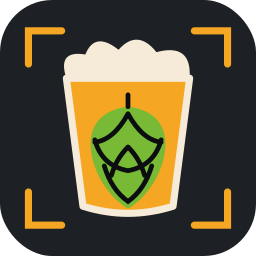
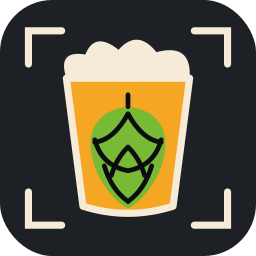
fix(p3): complete native picker acceptance and synchronize device checks

diff --git a/android/app/src/androidTest/java/ru/krapiva/app/account/AccountIntegrationTest.kt b/android/app/src/androidTest/java/ru/krapiva/app/account/AccountIntegrationTest.kt
@@ -15,9 +15,17 @@ import ru.krapiva.app.designsystem.KraPivaTheme
 import java.net.URL
 import java.util.UUID
 import android.graphics.Bitmap
-import java.io.ByteArrayOutputStream
-import java.io.File
 import android.os.ParcelFileDescriptor
+import ru.krapiva.app.TestEvidence
+import android.content.ContentValues
+import android.net.Uri
+import android.os.Build
+import android.os.Environment
+import android.provider.MediaStore
+import androidx.test.uiautomator.By
+import androidx.test.uiautomator.UiDevice
+import androidx.test.uiautomator.Until
+import java.util.regex.Pattern
 
 /** Real local HTTP+PostgreSQL+SMTP. Never targets staging/production or external mail. */
 @RunWith(AndroidJUnit4::class)
@@ -25,10 +33,7 @@ class AccountIntegrationTest {
     @get:Rule val compose = createComposeRule()
     private fun screenshot(name: String) {
         compose.waitForIdle()
-        val instrumentation = InstrumentationRegistry.getInstrumentation()
-        File(instrumentation.targetContext.getExternalFilesDir(null), name).outputStream().use {
-            instrumentation.uiAutomation.takeScreenshot().compress(Bitmap.CompressFormat.PNG, 100, it)
-        }
+        TestEvidence.screenshot(name)
     }
     private fun shell(command: String) {
         ParcelFileDescriptor.AutoCloseInputStream(InstrumentationRegistry.getInstrumentation().uiAutomation.executeShellCommand(command)).use { it.readBytes() }
@@ -38,6 +43,32 @@ class AccountIntegrationTest {
         try { connection.connectTimeout = 1000; connection.readTimeout = 1000; connection.responseCode == 200 }
         finally { connection.disconnect() }
     }.getOrDefault(false)
+    private fun insertSyntheticPhoto(): Uri {
+        val resolver = InstrumentationRegistry.getInstrumentation().targetContext.contentResolver
+        if (Build.VERSION.SDK_INT >= 29) {
+            val values = ContentValues().apply {
+                put(MediaStore.Images.Media.DISPLAY_NAME, "p3-synthetic-${UUID.randomUUID()}.png")
+                put(MediaStore.Images.Media.MIME_TYPE, "image/png")
+                put(MediaStore.Images.Media.RELATIVE_PATH, Environment.DIRECTORY_PICTURES + "/KraPivaP3")
+                put(MediaStore.Images.Media.DATE_TAKEN, System.currentTimeMillis())
+                put(MediaStore.Images.Media.IS_PENDING, 1)
+            }
+            val uri = checkNotNull(resolver.insert(MediaStore.Images.Media.EXTERNAL_CONTENT_URI, values))
+            val bitmap = Bitmap.createBitmap(32, 24, Bitmap.Config.ARGB_8888).apply { eraseColor(android.graphics.Color.rgb(245, 166, 35)) }
+            checkNotNull(resolver.openOutputStream(uri)).use { check(bitmap.compress(Bitmap.CompressFormat.PNG, 100, it)) }
+            resolver.update(uri, ContentValues().apply { put(MediaStore.Images.Media.IS_PENDING, 0) }, null, null)
+            return uri
+        }
+        error("The pinned API35 acceptance image is required for the native photo picker test")
+    }
+    private fun pickLatestPhoto(button: String, selected: String) {
+        compose.onNodeWithText(button).performScrollTo().performClick()
+        val device = UiDevice.getInstance(InstrumentationRegistry.getInstrumentation())
+        val thumbnail = device.wait(Until.findObject(By.res(Pattern.compile(".*:id/icon_thumbnail"))), 15_000)
+        assertNotNull("The actual Android photo picker must show the synthetic image", thumbnail)
+        thumbnail.click()
+        compose.waitUntil(15_000) { compose.onAllNodesWithText(selected).fetchSemanticsNodes().isNotEmpty() }
+    }
     @Test fun androidAccountFlowAndCacheIsolation() {
         check(BuildConfig.API_ENVIRONMENT == "development" && BuildConfig.API_BASE_URL.startsWith("http://10.0.2.2:"))
         val context = InstrumentationRegistry.getInstrumentation().targetContext
@@ -91,18 +122,25 @@ class AccountIntegrationTest {
             val session = store.session()!!
             val file = java.io.File(context.noBackupFilesDir, "session.enc").readBytes().toString(Charsets.ISO_8859_1)
             assertFalse(file.contains(session.getString("accessToken")))
-            val bitmap = Bitmap.createBitmap(32, 24, Bitmap.Config.ARGB_8888).apply { eraseColor(android.graphics.Color.rgb(245, 166, 35)) }
-            val image = ByteArrayOutputStream().apply { bitmap.compress(Bitmap.CompressFormat.PNG, 100, this) }.toByteArray()
-            val avatar = JSONObject(String(reopened.bytes("v1/media", "POST", image, "image/png"))).getString("id")
-            val cover = JSONObject(String(reopened.bytes("v1/media", "POST", image, "image/png"))).getString("id")
-            val edit = JSONObject(profile.toString()).apply { remove("userId"); remove("updatedAt"); put("avatarAssetId", avatar); put("coverAssetId", cover) }
-            val saved = reopened.json("v1/me/profile", "PATCH", edit)
-            assertEquals(avatar, saved.getString("avatarAssetId")); assertEquals(cover, saved.getString("coverAssetId"))
-            assertNotNull(reopened.photo(avatar)); assertNotNull(store.photo(userId, avatar))
         }
-        compose.onNodeWithText("Обновить").performScrollTo().performClick()
+        insertSyntheticPhoto()
+        compose.onNodeWithText("Редактировать профиль").performScrollTo().performClick()
+        compose.onNodeWithText("Выбрать аватар").performScrollTo().performClick()
+        UiDevice.getInstance(InstrumentationRegistry.getInstrumentation()).pressBack()
+        compose.waitUntil(10_000) { compose.onAllNodesWithText("Фото не выбрано. Профиль не изменён.").fetchSemanticsNodes().isNotEmpty() }
+        pickLatestPhoto("Выбрать аватар", "Другой аватар · фото выбрано")
+        pickLatestPhoto("Выбрать обложку", "Другая обложка · фото выбрано")
+        compose.onNodeWithText("Сохранить").performScrollTo().performClick()
         compose.waitUntil(20_000) { compose.onAllNodesWithContentDescription("Аватар профиля").fetchSemanticsNodes().isNotEmpty() }
         compose.onNodeWithContentDescription("Обложка профиля").assertExists()
+        runBlocking {
+            val reopened = AccountApi(AccountStore(context)); assertTrue(reopened.restore())
+            val saved = reopened.json("v1/me")
+            assertNotEquals(saved.getString("avatarAssetId"), saved.getString("coverAssetId"))
+            val thumbnail = reopened.photo(saved.getString("avatarAssetId"))!!
+            assertEquals(32, android.graphics.BitmapFactory.decodeByteArray(thumbnail, 0, thumbnail.size).width)
+            assertNotNull(store.photo(userId, saved.getString("avatarAssetId")))
+        }
         compose.onNodeWithContentDescription("Аватар профиля").performScrollTo().performClick()
         compose.waitUntil(15_000) { compose.onAllNodesWithText("Фото профиля").fetchSemanticsNodes().isNotEmpty() }
         compose.onNodeWithText("Закрыть").performClick()
@@ -117,7 +155,11 @@ class AccountIntegrationTest {
         compose.waitUntil(30_000) { networkReady() }
         compose.onNodeWithText("Обновить").performScrollTo().performClick()
         compose.waitUntil(30_000) { compose.onAllNodesWithText("Сохранённая копия · изменения требуют сети").fetchSemanticsNodes().isEmpty() }
+        // The profile arrives before the thumbnail requests finish. Navigation stays
+        // disabled until that real request completes; wait for its enabled state.
+        compose.waitUntil(20_000) { compose.onAllNodes(hasText("Настройки аккаунта") and isEnabled()).fetchSemanticsNodes().size == 1 }
         compose.onNodeWithText("Настройки аккаунта").performScrollTo().performClick()
+        compose.waitUntil(10_000) { compose.onAllNodes(hasText("Выйти из аккаунта") and isEnabled()).fetchSemanticsNodes().size == 1 }
         compose.onNodeWithText("Выйти из аккаунта").performScrollTo().performClick()
         compose.waitUntil(15_000) { compose.onAllNodesWithText("Вы вышли из аккаунта").fetchSemanticsNodes().isNotEmpty() }
         assertNull(store.cached(userId)); assertNull(store.session())

diff --git a/android/app/src/androidTest/java/ru/krapiva/app/designsystem/BeerHeroTest.kt b/android/app/src/androidTest/java/ru/krapiva/app/designsystem/BeerHeroTest.kt
@@ -1,6 +1,5 @@
 package ru.krapiva.app.designsystem
 
-import android.graphics.Bitmap
 import androidx.compose.foundation.layout.Column
 import androidx.compose.material3.Text
 import androidx.compose.ui.test.*
@@ -8,7 +7,7 @@ import androidx.compose.ui.test.junit4.createComposeRule
 import androidx.test.platform.app.InstrumentationRegistry
 import org.junit.Rule
 import org.junit.Test
-import java.io.File
+import ru.krapiva.app.TestEvidence
 import androidx.compose.ui.Modifier
 import androidx.compose.ui.platform.testTag
 import androidx.compose.ui.graphics.asAndroidBitmap
@@ -35,11 +34,7 @@ class BeerHeroTest {
             BeerHero(forceReducedMotion = true)
         } } }
         compose.onAllNodesWithContentDescription("Фирменный бокал KraPiva с пеной и хмелем").assertCountEquals(3)
-        val context = InstrumentationRegistry.getInstrumentation().targetContext
-        val file = File(context.getExternalFilesDir(null), "p3-liquid-states.png")
-        InstrumentationRegistry.getInstrumentation().uiAutomation.takeScreenshot().let { bitmap ->
-            file.outputStream().use { bitmap.compress(Bitmap.CompressFormat.PNG, 100, it) }
-        }
+        TestEvidence.screenshot("p3-liquid-states.png")
     }
     @Test fun noSensorLoopMovesAndReducedMotionStaysStill() {
         compose.setContent { KraPivaTheme { Column {
@@ -63,19 +58,28 @@ class BeerHeroTest {
             registry = LifecycleRegistry(owner).apply { currentState = Lifecycle.State.RESUMED }
         }
         val visible = mutableStateOf(true)
-        fun subscribed(): Boolean = ParcelFileDescriptor.AutoCloseInputStream(instrumentation.uiAutomation.executeShellCommand("dumpsys sensorservice")).use {
-            it.readBytes().toString(Charsets.UTF_8).substringAfter("open event connections")
-                .substringBefore("Previous Registrations:").contains(instrumentation.targetContext.packageName)
+        fun subscriptions(): Int = ParcelFileDescriptor.AutoCloseInputStream(instrumentation.uiAutomation.executeShellCommand("dumpsys sensorservice")).use {
+            // Connection objects/history can outlive unregistration. Count active
+            // sensor handles in this app's connection, not occurrences of its name.
+            val connections = it.readBytes().toString(Charsets.UTF_8)
+                .substringBefore("Previous Registrations:").split("Connection Number:").drop(1)
+            connections.filter { connection -> connection.contains(instrumentation.targetContext.packageName) }
+                .sumOf { connection -> Regex("0x[0-9a-fA-F]+\\s*\\|\\s*first flush pending").findAll(connection).count() }
+        }
+        fun expectSubscriptions(expected: Int, phase: String) {
+            var actual = -1
+            try { compose.waitUntil(10_000) { actual = subscriptions(); actual == expected } }
+            catch (error: Exception) { throw AssertionError("Sensor subscriptions during $phase: expected=$expected, actual=$actual", error) }
         }
         compose.setContent { KraPivaTheme {
             CompositionLocalProvider(LocalLifecycleOwner provides owner) { if (visible.value) BeerHero() }
         } }
-        compose.waitUntil(10_000) { subscribed() }
+        expectSubscriptions(1, "resume")
         compose.runOnIdle { registry.currentState = Lifecycle.State.CREATED }
-        compose.waitUntil(10_000) { !subscribed() }
+        expectSubscriptions(0, "pause")
         compose.runOnIdle { registry.currentState = Lifecycle.State.RESUMED }
-        compose.waitUntil(10_000) { subscribed() }
+        expectSubscriptions(1, "second resume without duplicate listeners")
         compose.runOnIdle { visible.value = false }
-        compose.waitUntil(10_000) { !subscribed() }
+        expectSubscriptions(0, "disposal")
     }
 }

diff --git a/android/app/src/androidTest/java/ru/krapiva/app/TestEvidence.kt b/android/app/src/androidTest/java/ru/krapiva/app/TestEvidence.kt
@@ -1,0 +1,34 @@
+package ru.krapiva.app
+
+import android.content.ContentValues
+import android.graphics.Bitmap
+import android.os.Build
+import android.os.Environment
+import android.provider.MediaStore
+import androidx.test.platform.app.InstrumentationRegistry
+import java.io.File
+
+/** Synthetic screenshots survive AGP uninstall; no storage permission in the app. */
+object TestEvidence {
+    fun screenshot(name: String) {
+        val instrumentation = InstrumentationRegistry.getInstrumentation()
+        val context = instrumentation.targetContext
+        val bitmap = checkNotNull(instrumentation.uiAutomation.takeScreenshot())
+        if (Build.VERSION.SDK_INT >= 29) {
+            val values = ContentValues().apply {
+                put(MediaStore.Downloads.DISPLAY_NAME, name)
+                put(MediaStore.Downloads.MIME_TYPE, "image/png")
+                put(MediaStore.Downloads.RELATIVE_PATH, Environment.DIRECTORY_DOWNLOADS + "/KraPivaP3")
+                put(MediaStore.Downloads.IS_PENDING, 1)
+            }
+            val resolver = context.contentResolver
+            val uri = checkNotNull(resolver.insert(MediaStore.Downloads.EXTERNAL_CONTENT_URI, values))
+            checkNotNull(resolver.openOutputStream(uri)).use { check(bitmap.compress(Bitmap.CompressFormat.PNG, 100, it)) }
+            resolver.update(uri, ContentValues().apply { put(MediaStore.Downloads.IS_PENDING, 0) }, null, null)
+        } else {
+            File(context.getExternalFilesDir(null), name).outputStream().use {
+                check(bitmap.compress(Bitmap.CompressFormat.PNG, 100, it))
+            }
+        }
+    }
+}

diff --git a/android/app/src/main/java/ru/krapiva/app/designsystem/BeerHero.kt b/android/app/src/main/java/ru/krapiva/app/designsystem/BeerHero.kt
@@ -112,8 +112,8 @@ fun BeerHero(modifier: Modifier = Modifier, previewAngle: Float? = null, forceRe
             val y = if (vertical == 0) h * .08f else h * .96f
             val dx = if (side == 0) w * .13f else -w * .13f
             val dy = if (vertical == 0) h * .12f else -h * .12f
-            drawLine(KraPivaColors.Amber, Offset(x, y), Offset(x + dx, y), w * .025f)
-            drawLine(KraPivaColors.Amber, Offset(x, y), Offset(x, y + dy), w * .025f)
+            drawLine(KraPivaColors.Cream, Offset(x, y), Offset(x + dx, y), w * .025f)
+            drawLine(KraPivaColors.Cream, Offset(x, y), Offset(x, y + dy), w * .025f)
         }
     }
 }

diff --git a/docs/PROGRESS.md b/docs/PROGRESS.md
@@ -1,12 +1,12 @@
-# KraPiva 2.0 — P3 WIP, АВАРИЙНАЯ ОСТАНОВКА
+# KraPiva 2.0 — P3 WIP, продолжение приёмки
 
-6 ноября 2026, Europe/Istanbul. Разработка остановлена по прямой команде
-владельца. **Не запускать задачи, сборки, тесты или исследования до «Продолжай».**
+6 ноября 2026, Europe/Istanbul. Владелец разрешил продолжение P3 после
+аварийного сохранения `24bd744`. Только P3; остановка перед P4 обязательна.
 P0/P1/P2 DONE. **P3 не принят: runtime-проверки Android не завершены. P4 не начат.**
 
 Ветка: `codex/krapiva-2-p3`, база P2 `bf995357098df505965dd4425afca6f5eeff4810`.
 Последний code/config checkpoint перед отчётом — `af07a7c` (push подтверждён).
-Финальный WIP-коммит сохранения — `git log -1`; его полный SHA сообщён владельцу.
+WIP остановки — `24bd7449ae8f42d21627cd8b2986421289fe33ea`; новые checkpoint — `git log`.
 Draft PR: https://github.com/D1ma4ka/Kr2P1v2/pull/6, base P2. Merge, force push,
 production, публикация APK и расходы не выполнялись.
 
@@ -57,23 +57,28 @@ production, публикация APK и расходы не выполнялис
   https://github.com/D1ma4ka/Kr2P1v2/actions/runs/42111333099
 - `af07a7c` исправляет пути: AVD/user/emulator каталоги явно в work/,
   setpriv --reset-env восстанавливает user context; emulator code запускается
-  непривилегированно. **Результат этого CI на момент стоп-команды не прочитан.**
-  Ранее автоматически запущенный удалённый CI может ещё выполняться;
-  WIP-сохранение помечено `[skip ci]`, новых проверок оно не запускает.
+  непривилегированно. **Результат прочитан при продолжении:** boot PASS, 5 instrumented tests,
+  3 PASS / 2 FAIL. Регистрация/письмо/вход/редактирование/фото/offline дошли
+  до settings; race после загрузки thumbnail и проверка sensor connection
+  исправляются, полный E2E ещё не принят. Run: 42112306001.
 - Screenshot baseline pending; physical tilt/TalkBack и RU staging NOT RUN/BLOCKED.
   Запрос удаления реализован, production erasure/retention process — до эксплуатации.
   Цели capacity не измерялись; весь продукт и iOS не объявляются завершёнными.
 
-## Точная следующая задача — только после «Продолжай»
+## Первая незавершённая задача
 
-1. Прочитать AGENTS, этот файл и `docs/stages/P3.md`; проверить branch/HEAD/status.
-2. **Прочитать уже запущенный CI для `af07a7c`**, не запускать сборку повторно
-   автоматически. Если boot прошёл — разобрать реальные instrumented results;
-   если нет — прочитать startup log и исправить только конкретную причину.
-3. Завершить настоящие Android account/profile/motion acceptance, посмотреть
-   реальные screenshots, обновить QA/matrix/P3 evidence. Не выдавать compile
-   test APK или unit math за runtime/physical PASS.
-4. После проверки сохранить результат, отчёт и STOP. P4 — отдельная команда.
+Повторить затронутую Android acceptance после конкретных исправлений af07:
+- ждать enabled navigation после thumbnail requests;
+- считать active sensor handles, а не оставшиеся connection/history names;
+- проверить настоящие native picker select/cancel → upload/save → media/read;
+- сохранять synthetic screenshots в MediaStore Downloads, переживающий AGP uninstall;
+- reinstall уже собранного app APK перед отдельной sensor/render проверкой.
+
+Local updated test APK + lint PASS, 47s; asset contrast/dimensions/XML PASS.
+Cream scanner corners приведены к точному §8.3, без изменения нормативного ТЗ.
+Backend не менялся: его 13 tests и CI заново не запускать без причины.
+После Android PASS посмотреть реальные screenshots, обновить QA/matrix/P3 report,
+сохранить результат и STOP до отдельной команды на P4.
 
 ## Лимиты и сохранность
 

diff --git a/docs/stages/P3.md b/docs/stages/P3.md
@@ -101,3 +101,17 @@ sudo HOME и искал AVD в /root, что привело к ложному AR
 emulator directories теперь явно заданы в work/, setpriv --reset-env
 восстанавливает настоящий user context. Это CI-only fix; backend integration
 должен быть SKIPPED по component diff, его код уже проверен на 8b4dc75.
+
+## Продолжение 6 ноября после 24bd744
+
+Прочитан af07 CI42112306001: emulator boot PASS, 5 device tests выполнены,
+3 PASS (large font, render states, fallback/static), 2 FAIL (account settings
+после online refresh и lifecycle timeout). Account flow дошёл через настоящий
+SMTP/register/login/profile/photos/offline до повторной навигации. Исправления:
+wait enabled navigation после thumbnail I/O; active handles вместо оставшихся
+connection names; screenshots через MediaStore Downloads (AGP удаляет app files).
+Расширен реальный native Photo Picker select/cancel → URI read → SQL/media flow,
+без прямой подмены upload HTTP в UI-сценарии. Старое cancel-сообщение очищается
+после удачного выбора. Cream scanner corners исправлены по §8.3 во всех assets.
+Local updated assembleDebugAndroidTest + lint PASS (47s), assets guard PASS.
+Backend неизменён и не пересобирается. Полная device приёмка ещё pending.
